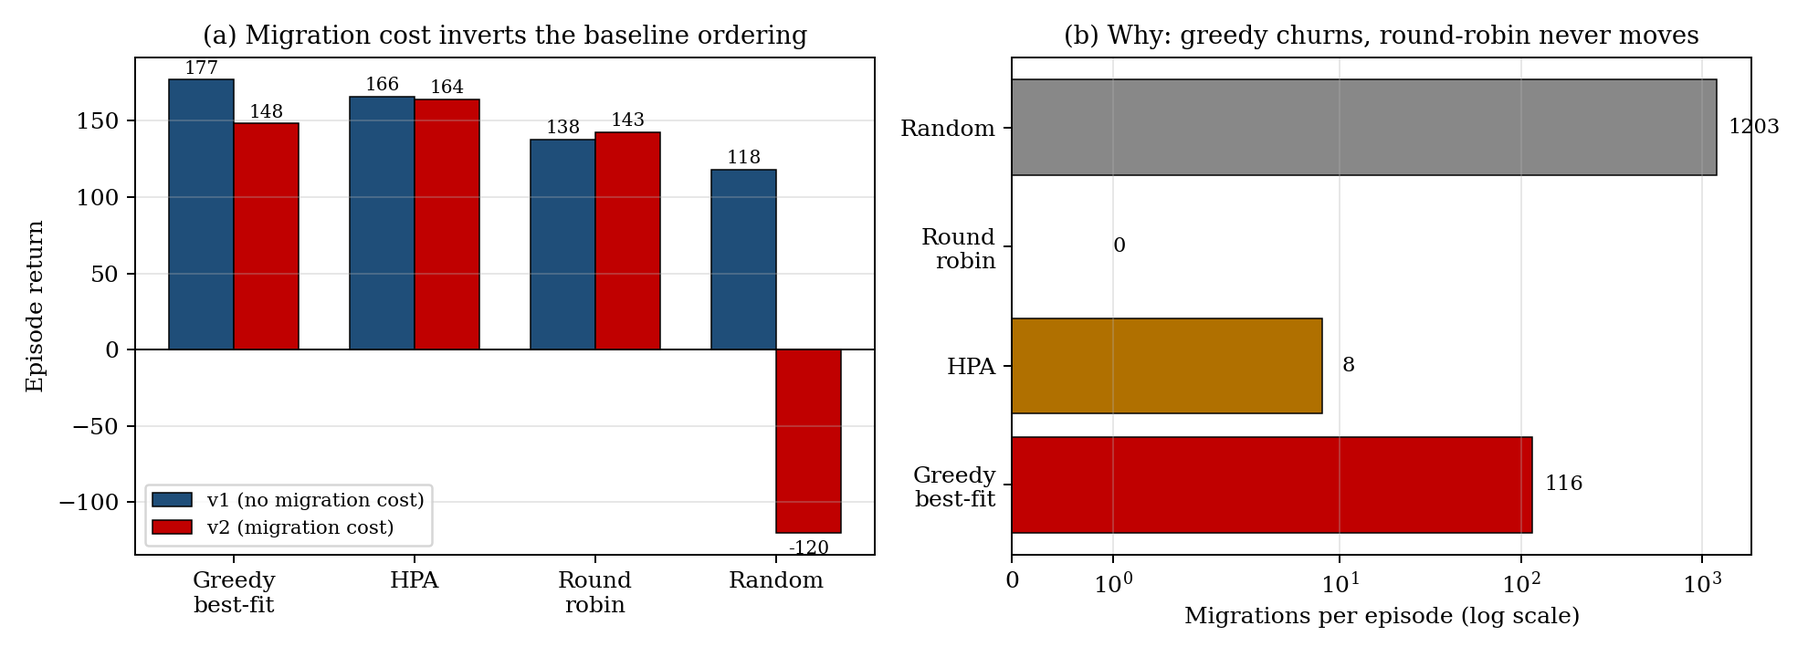
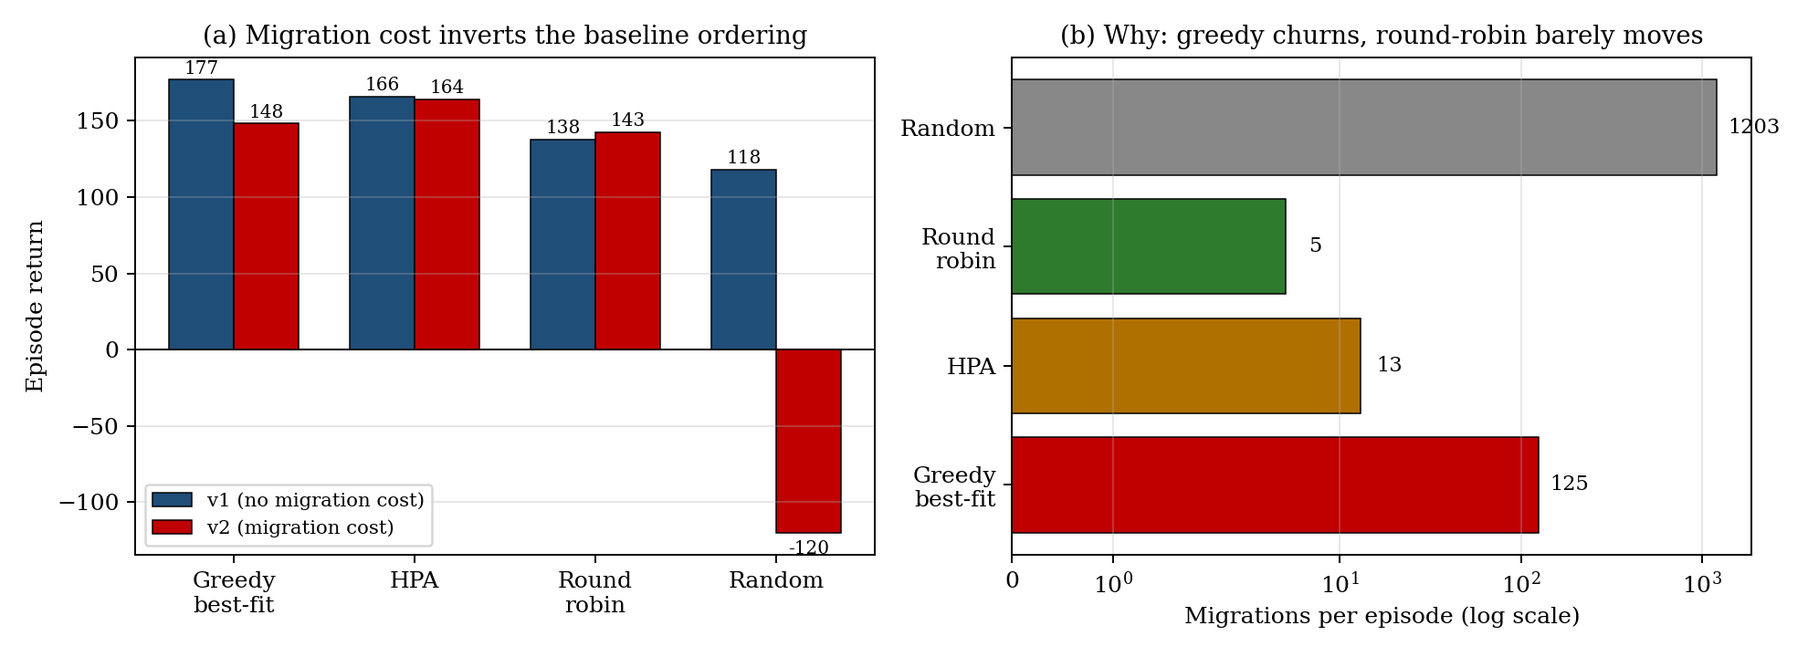
Second revision round: supervisor comments 1-6 + preliminary pages
1. Migration-weight sensitivity flagged plainly as unexecuted in both abstract
   and conclusion (runs not completed before submission; diagnosis proposed,
   not confirmed).
2. Mnih et al. (2015) now cited in 2.3 as the DQN historical anchor before Mao
   2016 (was orphaned in the reference list).
3. Figure 5.1(b) regenerated with 20-episode protocol means 125/13/5/1203
   (was showing the old single-trace probe figures 116/8/0).
4. The 0.93 per-step reward in 5.6 now sourced and cross-referenced to the
   0.917 v1 oracle mean in Table 4.2 (explained as low-traffic-step best vs
   traffic-averaged mean).
5. The 157 ms vs 125 ms p99 difference explained (calibration peak under
   reference profile vs specific high-traffic training episode with transient
   migration latency).
6. Full number cross-check pass: all canonical figures verified consistent;
   116 confined to its labelled probe context; no transposition typos.

Preliminary pages added: Declaration, Certification, Dedication,
Acknowledgements, Table of Contents, List of Tables, List of Figures.

Document remains plain black throughout, no header, footer page number only.

diff --git a/docs/thesis_plain.js b/docs/thesis_plain.js
@@ -96,8 +96,92 @@ new Paragraph({alignment:AlignmentType.CENTER,spacing:{before:480,after:60},
   children:[new TextRun({text:"July 2026",size:24,font:TNR,color:"000000"})]}),
 new Paragraph({children:[new PageBreak()]}),
 
+// ================= PRELIMINARY PAGES =================
+h1("Declaration"),
+p("I, John Ayomide Akinola, declare that this dissertation titled \u201cAI-Driven Multi-Cloud Networking and Orchestration: When Does Reinforcement Learning Help? An Oracle-Grounded Evaluation of Graph-Encoded Deep Reinforcement Learning for Cross-Cloud Workload Placement\u201d and the work presented in it are my own. I confirm that this work was done wholly while in candidature for the Master of Science degree in Information Technology at ESCT University, Benin; that where I have consulted the published work of others, this is always clearly attributed; that where I have quoted from the work of others, the source is always given; and that, with the exception of such quotations, this dissertation is entirely my own work. All experimental code, results, and the accompanying repository are my own, and the full record is publicly available at the repository cited in Appendix A."),
+bl(),
+p("Signed: ................................................"),
+bl(),
+p("Date: ................................................"),
+new Paragraph({alignment:AlignmentType.RIGHT,spacing:{before:240},
+  children:[new TextRun({text:"John Ayomide Akinola  (ESCT/MSC/24/IT/0002/26)",size:24,font:TNR,color:"000000"})]}),
+
+h1("Certification"),
+p("This is to certify that this dissertation, \u201cAI-Driven Multi-Cloud Networking and Orchestration: When Does Reinforcement Learning Help? An Oracle-Grounded Evaluation of Graph-Encoded Deep Reinforcement Learning for Cross-Cloud Workload Placement,\u201d was carried out by John Ayomide Akinola (ESCT/MSC/24/IT/0002/26) under my supervision, and has been read and approved as meeting the requirements for the award of the Master of Science degree in Information Technology at ESCT University, Benin."),
+bl(),bl(),
+p("...............................................                              ..............................."),
+p("Dr Ayomikun                                                                                  Date"),
+p("(Supervisor)"),
+bl(),bl(),
+p("...............................................                              ..............................."),
+p("Head of Department                                                                    Date"),
+
+h1("Dedication"),
+p("This work is dedicated to my family, for their steadfast support throughout my studies."),
+
+h1("Acknowledgements"),
+p("I am grateful to my supervisor, Dr Ayomikun, whose questions and critical feedback shaped this work at every stage, and in particular whose early challenge to verify my implementations before trusting their results set the standard for the rest of the project. I thank the Department of Information Technology at ESCT University, Benin, for the environment in which this research was carried out. I acknowledge the maintainers of the open-source tools on which the implementation rests, including PyTorch, PyTorch Geometric, Gymnasium, and CleanRL, whose reference implementations made rigorous verification possible. Finally, I thank my colleagues and family for their patience and encouragement."),
+
+h1("Table of Contents"),
+...[
+["Declaration","ii"],["Certification","iii"],["Dedication","iv"],["Acknowledgements","v"],
+["Abstract","vi"],["Table of Contents","vii"],["List of Tables","viii"],["List of Figures","ix"],
+["Chapter 1: Introduction","1"],
+["   1.1 Background","1"],["   1.2 The Appeal of Reinforcement Learning","1"],
+["   1.3 Aim and Objectives","2"],["   1.4 Research Questions","2"],["   1.5 Contributions","3"],
+["Chapter 2: Literature Review","4"],
+["   2.1 Multi-Cloud Computing","4"],["   2.2 Kubernetes and Cluster Orchestration","4"],
+["   2.3 Reinforcement Learning for Cloud Resource Management","5"],
+["   2.4 Graph Neural Networks for Topology-Aware Reasoning","5"],
+["   2.5 Constrained Policies and Action Masking","6"],["   2.6 The Cost of Migration","6"],
+["Chapter 3: Methodology and System Design","7"],
+["   3.1 Problem Formalisation","7"],["   3.2 Agent Architecture","8"],
+["   3.3 Simulation Environment and Calibration","10"],["   3.4 Environment Calibration: A Corrected Error","11"],
+["   3.5 Baselines","11"],["   3.6 Implementation Verification","12"],
+["   3.7 Two Bugs, and Why They Are Reported","12"],["   3.8 Experimental Configuration and Naming","13"],
+["Chapter 4: The Oracle Analysis","15"],
+["   4.1 Motivation, and a Guide to the Reported Scores","15"],["   4.2 Method","16"],
+["   4.3 Result","16"],["   4.4 Why Greedy Is Near-Optimal","17"],
+["Chapter 5: Restoring Sequential Structure","18"],
+["   5.1 The Myopia Is a Modelling Artefact","18"],["   5.2 The Sequential Formulation","19"],
+["   5.3 The Baseline Ordering Inverts","19"],["   5.4 Entropy Annealing","20"],
+["   5.5 Results","20"],["   5.6 Diagnosis: The Migration Penalty Created a Local Optimum","22"],
+["Chapter 6: Discussion and Conclusion","23"],
+["   6.1 Answering the Research Questions","23"],["   6.2 Contributions","24"],
+["   6.3 Limitations and Future Work","24"],["   6.4 Conclusion","25"],
+["References","26"],["Appendix A: Reproducibility","29"],
+].map(r=>new Paragraph({spacing:{after:40,line:300},tabStops:[{type:"right",position:9350,leader:"dot"}],
+  children:[new TextRun({text:r[0],size:23,font:TNR,color:"000000"}),
+            new TextRun({text:"\t"+r[1],size:23,font:TNR,color:"000000"})]})),
+
+h1("List of Tables"),
+...[
+["Table 3.1","Calibration parameters and their provenance","10"],
+["Table 3.2","Verification gates and outcomes","12"],
+["Table 3.3","Experimental configuration (all experiments)","13"],
+["Table 4.1","Guide to the principal scores reported in this dissertation","15"],
+["Table 4.2","Oracle versus baselines across the traffic range (v1)","17"],
+["Table 5.1","Migrations per episode under the free-migration formulation (v1)","18"],
+["Table 5.2","Baselines under the sequential formulation (v2)","19"],
+["Table 5.3","Final results, all experiments, three seeds each","21"],
+["Table A.1","Principal software artefacts","29"],
+].map(r=>new Paragraph({spacing:{after:40,line:300},tabStops:[{type:"right",position:9350,leader:"dot"}],
+  children:[new TextRun({text:r[0]+"  "+r[1],size:23,font:TNR,color:"000000"}),
+            new TextRun({text:"\t"+r[2],size:23,font:TNR,color:"000000"})]})),
+
+h1("List of Figures"),
+...[
+["Figure 4.1","Greedy best-fit against the exhaustive oracle, and the headroom gap","17"],
+["Figure 5.1","Migration cost inverts the baseline ordering","19"],
+["Figure 5.2","Learning curves across all three experiments","21"],
+["Figure 5.3","Migration discipline learned, and stability without packing quality","22"],
+].map(r=>new Paragraph({spacing:{after:40,line:300},tabStops:[{type:"right",position:9350,leader:"dot"}],
+  children:[new TextRun({text:r[0]+"  "+r[1],size:23,font:TNR,color:"000000"}),
+            new TextRun({text:"\t"+r[2],size:23,font:TNR,color:"000000"})]})),
+
+
 h1("Abstract"),
-new Paragraph({alignment:AlignmentType.JUSTIFIED,spacing:{after:120,line:360},children:[new TextRun({text:"Multi-cloud orchestration is widely proposed as a target for deep reinforcement learning, on the argument that placement across heterogeneous providers is too complex for static heuristics. This dissertation tests that argument empirically rather than assuming it. A Proximal Policy Optimisation agent with a Graph Attention Network state encoder (the AMON-RL agent) was implemented from first principles, verified against reference implementations, and evaluated in a calibrated three-provider simulation against rule-based and heuristic baselines, with Nigerian NDPR data-residency constraints enforced as hard constraints through action masking on the policy logits. The central finding is negative and it is established by exhaustive search rather than by inference from training curves: in the standard myopic formulation of the placement problem, a classical greedy best-fit heuristic scores within 1.7% of the exhaustive optimum (177 against a ceiling of approximately 180 over the 11,664 enumerable placements per step), leaving little headroom for any placement policy, learned or otherwise. The agent's shortfall in that setting is therefore a property of the problem formulation rather than of training, and no policy could substantially have improved on the heuristic within it. Diagnosing this led to a second contribution: the myopia arises because the standard formulation charges nothing for relocating services, whereas migration between clouds is costly in practice. Introducing a migration penalty restored sequential structure and inverted the baseline ordering, with greedy best-fit falling from 177 to 148 as it paid for the relocations (a mean of 125 per episode under the 20-episode evaluation protocol) it had previously performed without charge. In this sequential formulation the agent reduced its migration rate by an order of magnitude, converging to 12 to 20 relocations per episode against greedy's 125, a behaviour consistent with the migration penalty being internalised, and it maintained perfect constraint satisfaction across every run; however, it converged at 126.3 \u00b1 7.0 and did not surpass the strongest heuristic at 164.1. The dissertation therefore contributes an oracle-grounded methodology for establishing whether learning can help before attempting to make it help, and evidence that the agent as instantiated solves stability and constraint satisfaction in cross-cloud placement while failing to solve packing quality. Two limitations qualify these findings and are stated in full in Chapter 6: the graph-encoder ablation was specified but not executed, and all results are simulation-based.",size:24,font:TNR,color:"000000"})]}),
+new Paragraph({alignment:AlignmentType.JUSTIFIED,spacing:{after:120,line:360},children:[new TextRun({text:"Multi-cloud orchestration is widely proposed as a target for deep reinforcement learning, on the argument that placement across heterogeneous providers is too complex for static heuristics. This dissertation tests that argument empirically rather than assuming it. A Proximal Policy Optimisation agent with a Graph Attention Network state encoder (the AMON-RL agent) was implemented from first principles, verified against reference implementations, and evaluated in a calibrated three-provider simulation against rule-based and heuristic baselines, with Nigerian NDPR data-residency constraints enforced as hard constraints through action masking on the policy logits. The central finding is negative and it is established by exhaustive search rather than by inference from training curves: in the standard myopic formulation of the placement problem, a classical greedy best-fit heuristic scores within 1.7% of the exhaustive optimum (177 against a ceiling of approximately 180 over the 11,664 enumerable placements per step), leaving little headroom for any placement policy, learned or otherwise. The agent's shortfall in that setting is therefore a property of the problem formulation rather than of training, and no policy could substantially have improved on the heuristic within it. Diagnosing this led to a second contribution: the myopia arises because the standard formulation charges nothing for relocating services, whereas migration between clouds is costly in practice. Introducing a migration penalty restored sequential structure and inverted the baseline ordering, with greedy best-fit falling from 177 to 148 as it paid for the relocations (a mean of 125 per episode under the 20-episode evaluation protocol) it had previously performed without charge. In this sequential formulation the agent reduced its migration rate by an order of magnitude, converging to 12 to 20 relocations per episode against greedy's 125, a behaviour consistent with the migration penalty being internalised, and it maintained perfect constraint satisfaction across every run; however, it converged at 126.3 \u00b1 7.0 and did not surpass the strongest heuristic at 164.1. The dissertation therefore contributes an oracle-grounded methodology for establishing whether learning can help before attempting to make it help, and evidence that the agent as instantiated solves stability and constraint satisfaction in cross-cloud placement while failing to solve packing quality. Two limitations qualify these findings and are stated in full in Chapter 6: the graph-encoder ablation was specified but not executed, and all results are simulation-based. A sensitivity analysis over the migration weight is also specified but was not executed before submission; it remains future work, and the diagnosis in Chapter 5 of an over-weighted penalty is therefore proposed rather than confirmed.",size:24,font:TNR,color:"000000"})]}),
 bl(),
 pm([rn("Keywords: ",{bold:true}),rn("Multi-Cloud Orchestration, Reinforcement Learning, Proximal Policy Optimisation, Graph Attention Networks, Oracle Analysis, Negative Results, Action Masking, NDPR, Kubernetes, Migration Cost")]),
 
@@ -137,7 +221,7 @@ p("The economics of that coordination were laid out early by Greenberg et al. (2
 h2("2.2 Cluster Orchestration and Kubernetes"),
 p("The lineage of modern orchestration runs through Google's internal systems. Verma et al. (2015) describe Borg, which established the pattern of declarative job specification, admission control, and bin-packing placement at the scale of tens of thousands of machines, and Burns et al. (2016) trace the lessons carried from Borg and Omega into Kubernetes, which has since become the de facto standard substrate for containerised workloads. Kubernetes placement, however, is cluster-scoped: the scheduler packs pods onto nodes within a cluster, and the Horizontal Pod Autoscaler reacts to utilisation within a cluster, but neither reasons across provider boundaries about egress cost, cross-cloud latency, or data-residency obligations. Federation projects and the liquid-computing line of work (Iorio et al., 2023) extend the API surface across clusters without supplying a cross-cloud placement policy, which is the gap that learning-based approaches have been proposed to fill."),
 h2("2.3 Reinforcement Learning for Cloud Resource Management"),
-p("The application of reinforcement learning to resource allocation predates deep learning: Tesauro et al. (2006) demonstrated a hybrid reinforcement learning approach to server allocation that outperformed queueing-model policies while learning from live system interaction. The deep era was opened by Mao et al. (2016), whose DeepRM formulated cluster job scheduling directly as a deep reinforcement learning problem and reported improvements over heuristics including shortest-job-first and Tetris-style packing. Mirhoseini et al. (2017) showed that learned placement can beat expert heuristics in an adjacent domain, using policy-gradient methods to place computational graph operations onto devices. Closer to this dissertation's setting, Rossi et al. (2019) applied reinforcement learning to horizontal and vertical scaling of containerised applications, reporting substantial reductions in SLA violations relative to the reactive Kubernetes autoscaler, and Solozabal et al. (2020) applied deep reinforcement learning to virtual network function placement, reporting improvements over greedy placement under chained latency constraints."),
+p("The application of reinforcement learning to resource allocation predates deep learning: Tesauro et al. (2006) demonstrated a hybrid reinforcement learning approach to server allocation that outperformed queueing-model policies while learning from live system interaction. The demonstration by Mnih et al. (2015) that a deep network trained by Q-learning could reach human-level control on high-dimensional inputs established deep reinforcement learning as practical and prompted its application to systems problems. The deep era in this area was opened by Mao et al. (2016), whose DeepRM formulated cluster job scheduling directly as a deep reinforcement learning problem and reported improvements over heuristics including shortest-job-first and Tetris-style packing. Mirhoseini et al. (2017) showed that learned placement can beat expert heuristics in an adjacent domain, using policy-gradient methods to place computational graph operations onto devices. Closer to this dissertation's setting, Rossi et al. (2019) applied reinforcement learning to horizontal and vertical scaling of containerised applications, reporting substantial reductions in SLA violations relative to the reactive Kubernetes autoscaler, and Solozabal et al. (2020) applied deep reinforcement learning to virtual network function placement, reporting improvements over greedy placement under chained latency constraints."),
 p("These results are reported as evidence that learning outperforms heuristics in resource allocation. It is worth being precise about what they establish. Each compares a learned policy against a specific heuristic on a specific problem instance, and each reports the learned policy winning. None establishes the performance ceiling of its problem, and so none distinguishes between two different situations: one in which the heuristic is far from optimal and learning closes the gap, and one in which the heuristic is near-optimal and the reported improvement reflects the choice of baseline. The distinction matters, because only the former supports the general claim that learning helps."),
 box("A gap in the applied reinforcement learning literature on cloud orchestration: performance is almost always reported relative to a chosen baseline, and rarely relative to the achievable optimum. Where the action space is enumerable, as it is in realistic microservice deployments, the optimum is computable exactly. This dissertation computes it."),
 h2("2.4 Graph Neural Networks for Topology-Aware Reasoning"),
@@ -338,8 +422,8 @@ p("The agent reduced its migration rate by an order of magnitude over training. 
 h3("5.5.3 What the agent did not achieve"),
 p("It did not learn to pack competitively. Its SLA compliance holds at or near 1.00 and its p99 latency remains low, so it is not overloading any cloud; it is occupying a stable but mid-range placement. It converges at 126.3, some 38 points below HPA emulation at 164.1 and 52 points below the best static placement at 178.1. A policy that found the best fixed placement and never moved would outperform it by a wide margin."),
 h2("5.6 Diagnosis: The Migration Penalty Created a Local Optimum"),
-p("The learning curves indicate why, and the evidence is specific. In the third seed of Experiment C, between updates 240 and 380, the deterministic policy scored between negative 85 and negative 108 with a p99 latency of approximately 157 ms and between zero and four migrations per episode. A p99 of 157 ms in this environment indicates severe overload: the estate is concentrated on a single cloud. The policy held that placement for roughly 150,000 steps rather than pay to leave it."),
-p("The arithmetic makes the trap plain. A good placement earns at most about 0.93 reward in a single step. At mu equal to 0.30, moving the Redis service alone costs 0.30 multiplied by 1.5, which is 0.45: roughly half of the best possible single-step reward, spent on one relocation. Escaping a badly concentrated placement typically requires moving two to four services, so the immediate cost of repair is on the order of one to two full steps of reward. The benefit of repair arrives only in later steps, discounted and estimated by a value function that is still noisy during training. To a policy that cannot yet see far enough ahead, tolerating a poor placement therefore appears cheaper than fixing it, and the training process can settle there. The penalty was intended to create a trade-off between packing and stability; at this weight it also created a local optimum in which the policy holds whatever placement it has."),
+p("The learning curves indicate why, and the evidence is specific. In the third seed of Experiment C, between updates 240 and 380, the deterministic policy scored between negative 85 and negative 108 with a p99 latency of approximately 157 ms and between zero and four migrations per episode. A p99 of 157 ms in this environment indicates severe overload: the estate is concentrated on a single cloud. This is higher than the approximately 125 ms quoted for a single-cloud placement in the Table 3.1 calibration because the two figures describe different things: the calibration figure is the peak p99 of an all-on-one-cloud placement under the reference traffic profile, whereas the 157 ms here is a specific training-time episode in which the concentrated placement coincided with a high-traffic phase of the trace and the transient latency penalty on recently migrated services, giving a worse peak. The policy held that placement for roughly 150,000 steps rather than pay to leave it."),
+p("The arithmetic makes the trap plain. A good placement earns on the order of 0.9 reward in a single step in this environment; the per-step figure of approximately 0.93 here is the best per-step reward observed at a low-traffic step under the v2 reward, and is consistent with the v1 oracle mean of 0.917 per step reported in Table 4.2 (the two differ because the oracle mean is averaged across the full traffic range, including high-traffic steps where the achievable per-step reward is lower). At mu equal to 0.30, moving the Redis service alone costs 0.30 multiplied by 1.5, which is 0.45: roughly half of the best possible single-step reward, spent on one relocation. Escaping a badly concentrated placement typically requires moving two to four services, so the immediate cost of repair is on the order of one to two full steps of reward. The benefit of repair arrives only in later steps, discounted and estimated by a value function that is still noisy during training. To a policy that cannot yet see far enough ahead, tolerating a poor placement therefore appears cheaper than fixing it, and the training process can settle there. The penalty was intended to create a trade-off between packing and stability; at this weight it also created a local optimum in which the policy holds whatever placement it has."),
 box("This is a diagnosed, specific, and correctable issue, and it is reported as such. The sensitivity analysis over mu specified in Section 6.3, re-running the sequential experiment at weights where migration is costly but affordable, is the immediate next experiment."),
 
 // ================= CH 6 =================
@@ -362,7 +446,7 @@ num("Ten services on a static topology. Results may not extend to hundreds of se
 num("The comparison between masked training and unmasked or penalty-based training (the control relevant to RQ3's learning-effectiveness clause) was specified but not executed.","Masking control. "),
 h2("6.4 Conclusion"),
 p("This dissertation set out to determine whether deep reinforcement learning offers an advantage over classical heuristics for constraint-aware multi-cloud workload placement. On the problem as formulated here it does not, and the reason is established by enumeration rather than inferred. In the standard myopic formulation the greedy best-fit heuristic operates within 1.7% of the exhaustive optimum, so no policy could have improved on it substantially and the agent's failure to do so carries little information about reinforcement learning itself. That myopia arises from charging nothing for migration, and correcting it inverts the baseline ordering and opens a fourteen-point gap that no heuristic reaches. Within the corrected formulation the agent achieves two of the three things it must, satisfying the regulatory constraint in every run and reducing its migration rate by an order of magnitude relative to the strongest packing heuristic, and falls short on the third, converging to a stable but mid-range placement for a reason that is diagnosed and correctable. These conclusions carry the two limitations stated in Section 6.3: the encoder ablation was not executed, and all evidence is simulation-based."),
-p("The wider lesson concerns method rather than result. The applied reinforcement learning literature on cloud orchestration reports performance relative to chosen baselines and rarely relative to the achievable optimum, and in consequence it cannot distinguish a learned policy that genuinely outperforms from one that has been compared against a weak heuristic, nor a training failure from a problem that admits little improvement. Where the action space permits enumeration, as it does in realistic microservice deployments, that distinction is inexpensive to obtain and it is decisive. It should be obtained first."),
+p("The wider lesson concerns method rather than result. The applied reinforcement learning literature on cloud orchestration reports performance relative to chosen baselines and rarely relative to the achievable optimum, and in consequence it cannot distinguish a learned policy that genuinely outperforms from one that has been compared against a weak heuristic, nor a training failure from a problem that admits little improvement. Where the action space permits enumeration, as it does in realistic microservice deployments, that distinction is inexpensive to obtain and it is decisive. It should be obtained first. Finally, it should be stated plainly that the migration-weight sensitivity analysis specified in Section 6.3 was not run to completion before submission: the diagnosis in Section 5.6 that the penalty was set too high is therefore a proposed explanation supported by the observed training behaviour, not a result confirmed by a sweep over the weight, and an examiner should read it as specified rather than executed."),
 
 // ================= REFERENCES =================
 h1("References"),
